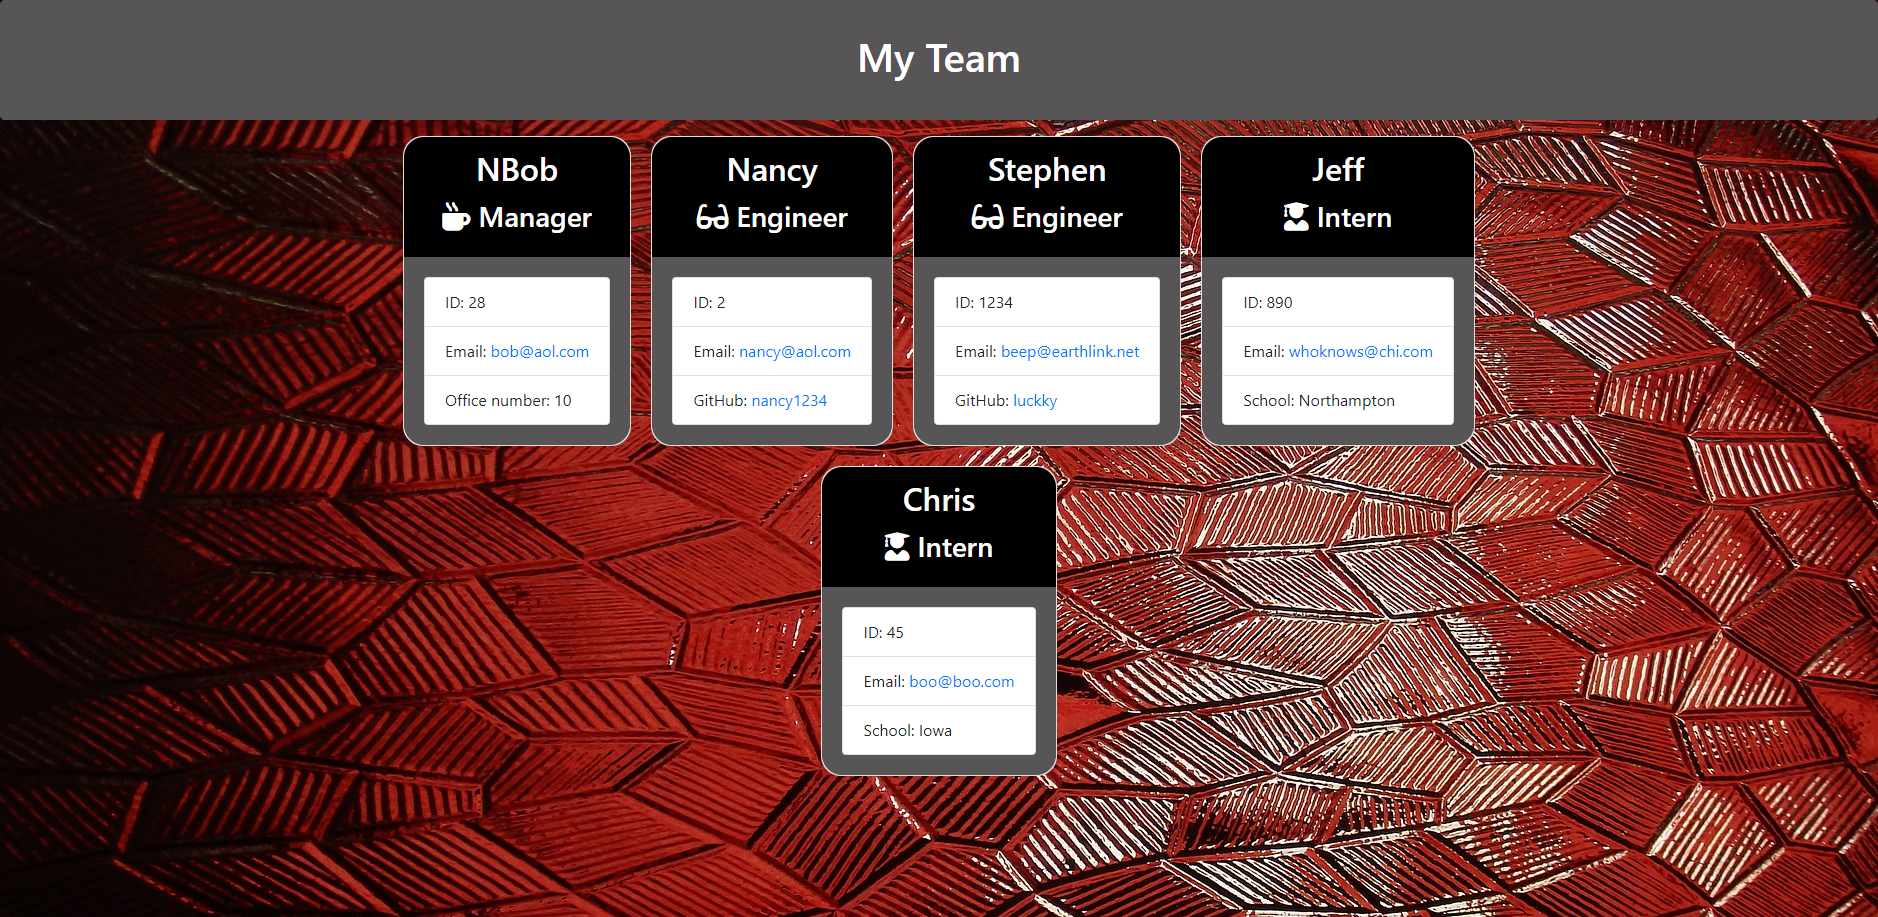
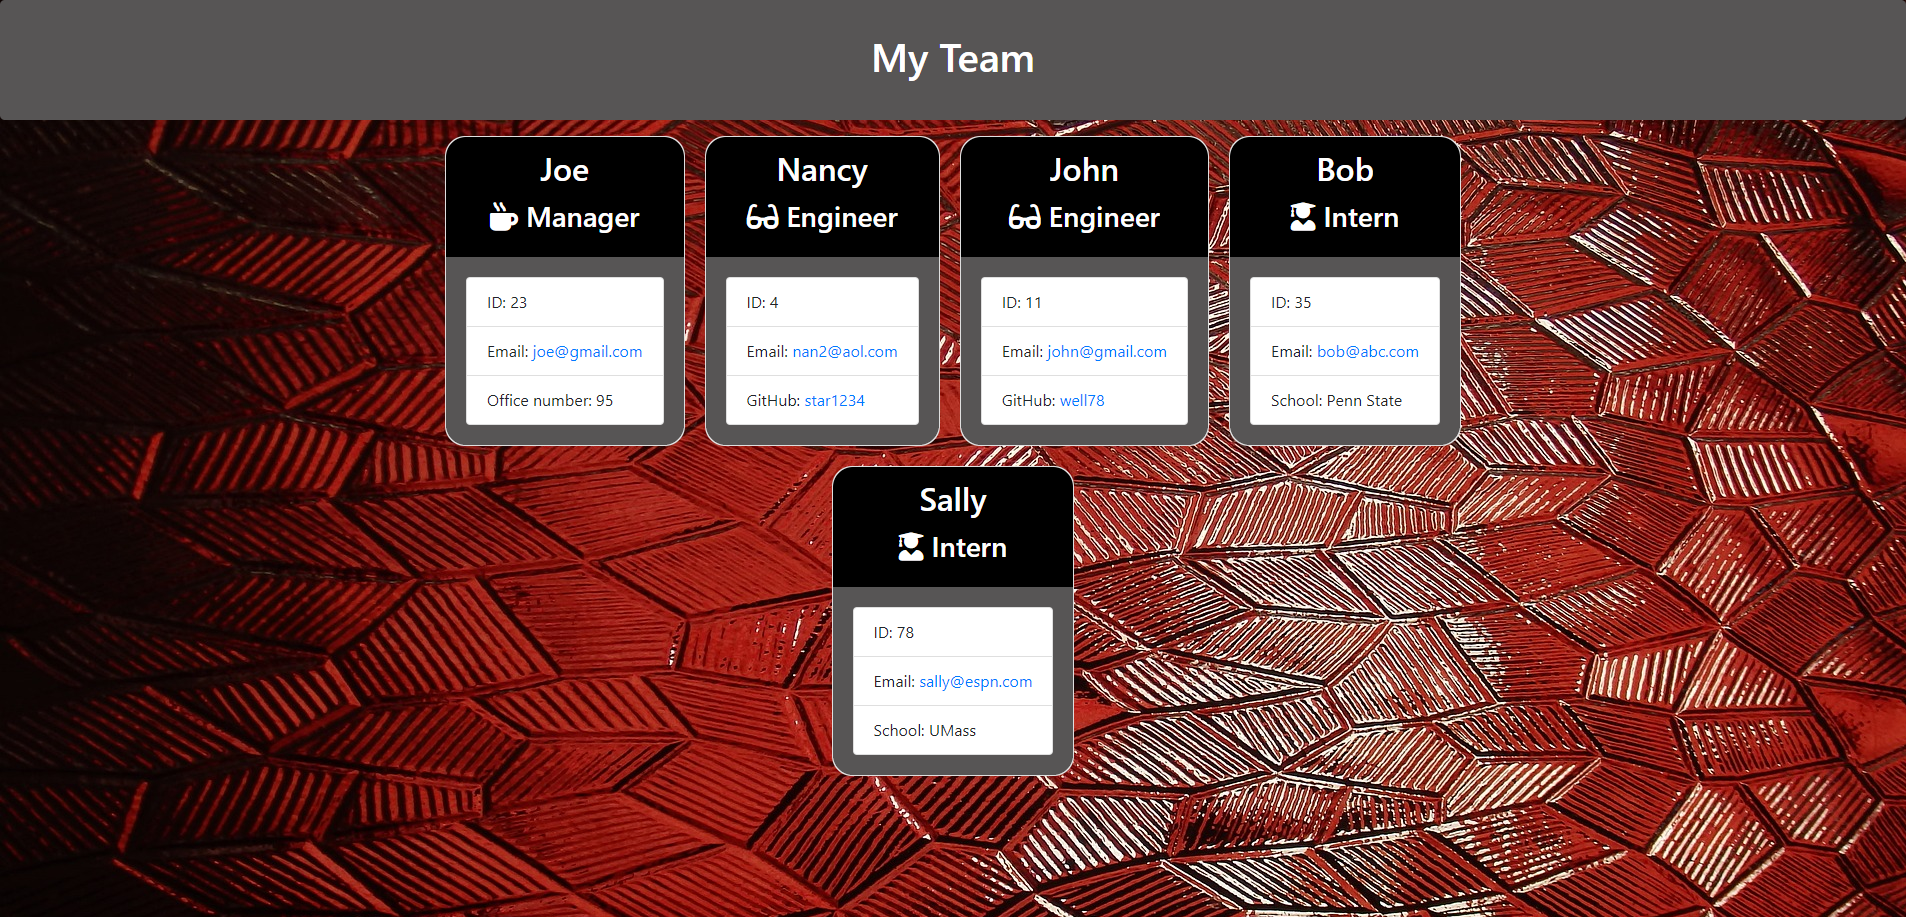
changed screenshot for readme

diff --git a/Develop/output/team.html b/Develop/output/team.html
@@ -1,0 +1,95 @@
+<!DOCTYPE html>
+<html lang="en">
+
+<head>
+    <meta charset="UTF-8" />
+    <meta name="viewport" content="width=device-width, initial-scale=1.0" />
+    <meta http-equiv="X-UA-Compatible" content="ie=edge" />
+    <title>My Team</title>
+    <link rel="stylesheet" href="https://stackpath.bootstrapcdn.com/bootstrap/4.3.1/css/bootstrap.min.css"
+        integrity="sha384-ggOyR0iXCbMQv3Xipma34MD+dH/1fQ784/j6cY/iJTQUOhcWr7x9JvoRxT2MZw1T" crossorigin="anonymous">
+    <link rel="stylesheet" href="../css/style.css">
+    <script src="https://kit.fontawesome.com/c502137733.js"></script>
+</head>
+
+<body>
+    <div class="container-fluid">
+        <div class="row">
+            <div class="col-12 jumbotron bannerColor text-white mb-3 team-heading">
+                <h1 class="text-center">My Team</h1>
+            </div>
+        </div>
+    </div>
+    <div class="container">
+        <div class="row row-cols-1 row-cols-xs-1 row-cols-sm-2 justify-content-center">
+                    <div class="card employee-card">
+    <div class="card-header text-center">
+        <h2 class="card-title">Joe</h2>
+        <h3 class="card-title"><i class="fas fa-mug-hot mr-2"></i>Manager</h3>
+    </div>
+    <div class="card-body">
+        <ul class="list-group">
+            <li class="list-group-item">ID: 23</li>
+            <li class="list-group-item">Email: <a href="mailto:joe@gmail.com">joe@gmail.com</a></li>
+            <li class="list-group-item">Office number: 95</li>
+        </ul>
+    </div>
+</div>
+<div class="card employee-card">
+    <div class="card-header text-center">
+        <h2 class="card-title">Nancy</h2>
+        <h3 class="card-title"><i class="fas fa-glasses mr-2"></i>Engineer</h3>
+    </div>
+    <div class="card-body">
+        <ul class="list-group">
+            <li class="list-group-item">ID: 4</li>
+            <li class="list-group-item">Email: <a href="mailto:nan2@aol.com">nan2@aol.com</a></li>
+            <li class="list-group-item">GitHub: <a href="https://github.com/star1234" target="_blank" rel="noopener noreferrer">star1234</a></li>
+        </ul>
+    </div>
+</div>
+<div class="card employee-card">
+    <div class="card-header text-center">
+        <h2 class="card-title">John</h2>
+        <h3 class="card-title"><i class="fas fa-glasses mr-2"></i>Engineer</h3>
+    </div>
+    <div class="card-body">
+        <ul class="list-group">
+            <li class="list-group-item">ID: 11</li>
+            <li class="list-group-item">Email: <a href="mailto:john@gmail.com">john@gmail.com</a></li>
+            <li class="list-group-item">GitHub: <a href="https://github.com/well78" target="_blank" rel="noopener noreferrer">well78</a></li>
+        </ul>
+    </div>
+</div>
+<div class="card employee-card">
+    <div class="card-header text-center">
+        <h2 class="card-title">Bob</h2>
+        <h3 class="card-title"><i class="fas fa-user-graduate mr-2"></i>Intern</h3>
+    </div>
+    <div class="card-body">
+        <ul class="list-group">
+            <li class="list-group-item">ID: 35</li>
+            <li class="list-group-item">Email: <a href="mailto:bob@abc.com">bob@abc.com</a></li>
+            <li class="list-group-item">School: Penn State</li>
+        </ul>
+    </div>
+</div>
+<div class="card employee-card">
+    <div class="card-header text-center">
+        <h2 class="card-title">Sally</h2>
+        <h3 class="card-title"><i class="fas fa-user-graduate mr-2"></i>Intern</h3>
+    </div>
+    <div class="card-body">
+        <ul class="list-group">
+            <li class="list-group-item">ID: 78</li>
+            <li class="list-group-item">Email: <a href="mailto:sally@espn.com">sally@espn.com</a></li>
+            <li class="list-group-item">School: UMass</li>
+        </ul>
+    </div>
+</div>
+
+        </div>
+    </div>
+</body>
+
+</html>

diff --git a/Develop/app.js b/Develop/app.js
@@ -150,6 +150,7 @@ async function init() {
     // Initial instructions to user
     console.log("First, enter the Team Manager information");
     // Query user for answers to generic questions for the manager, wait until all answers provided before advancing to next line
+    roleType = "Manager";
     var mgr = await inquirer.prompt(genericQuestions)
     // Query user for answer to manager question, wait until answer provided before advancing to next line
     var mgr1 = await inquirer.prompt(mgrQuestion)
